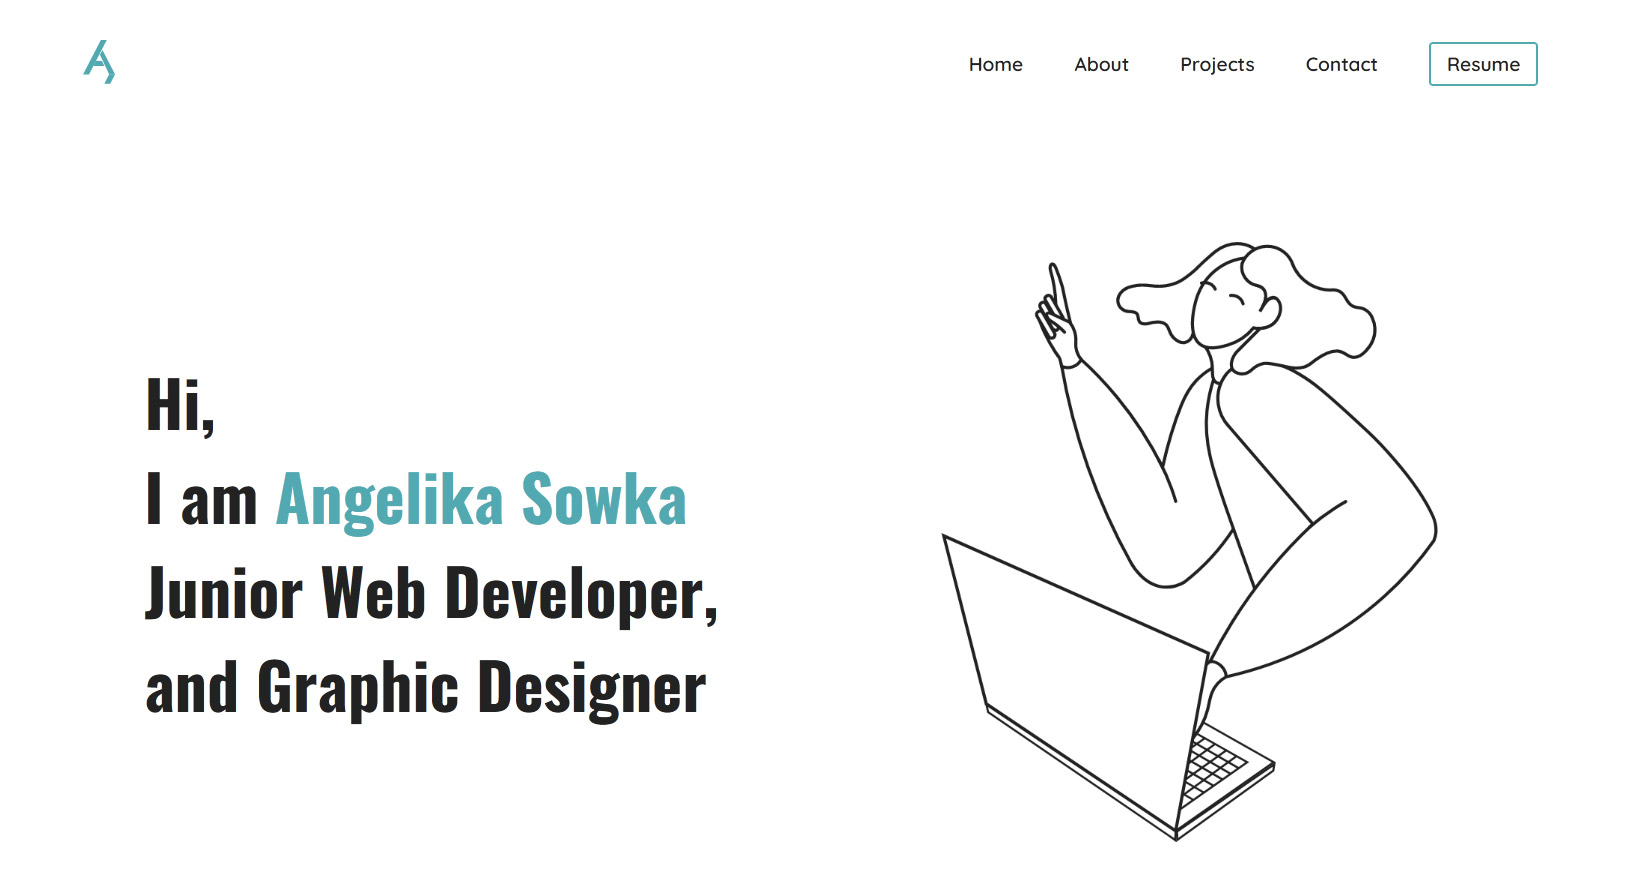
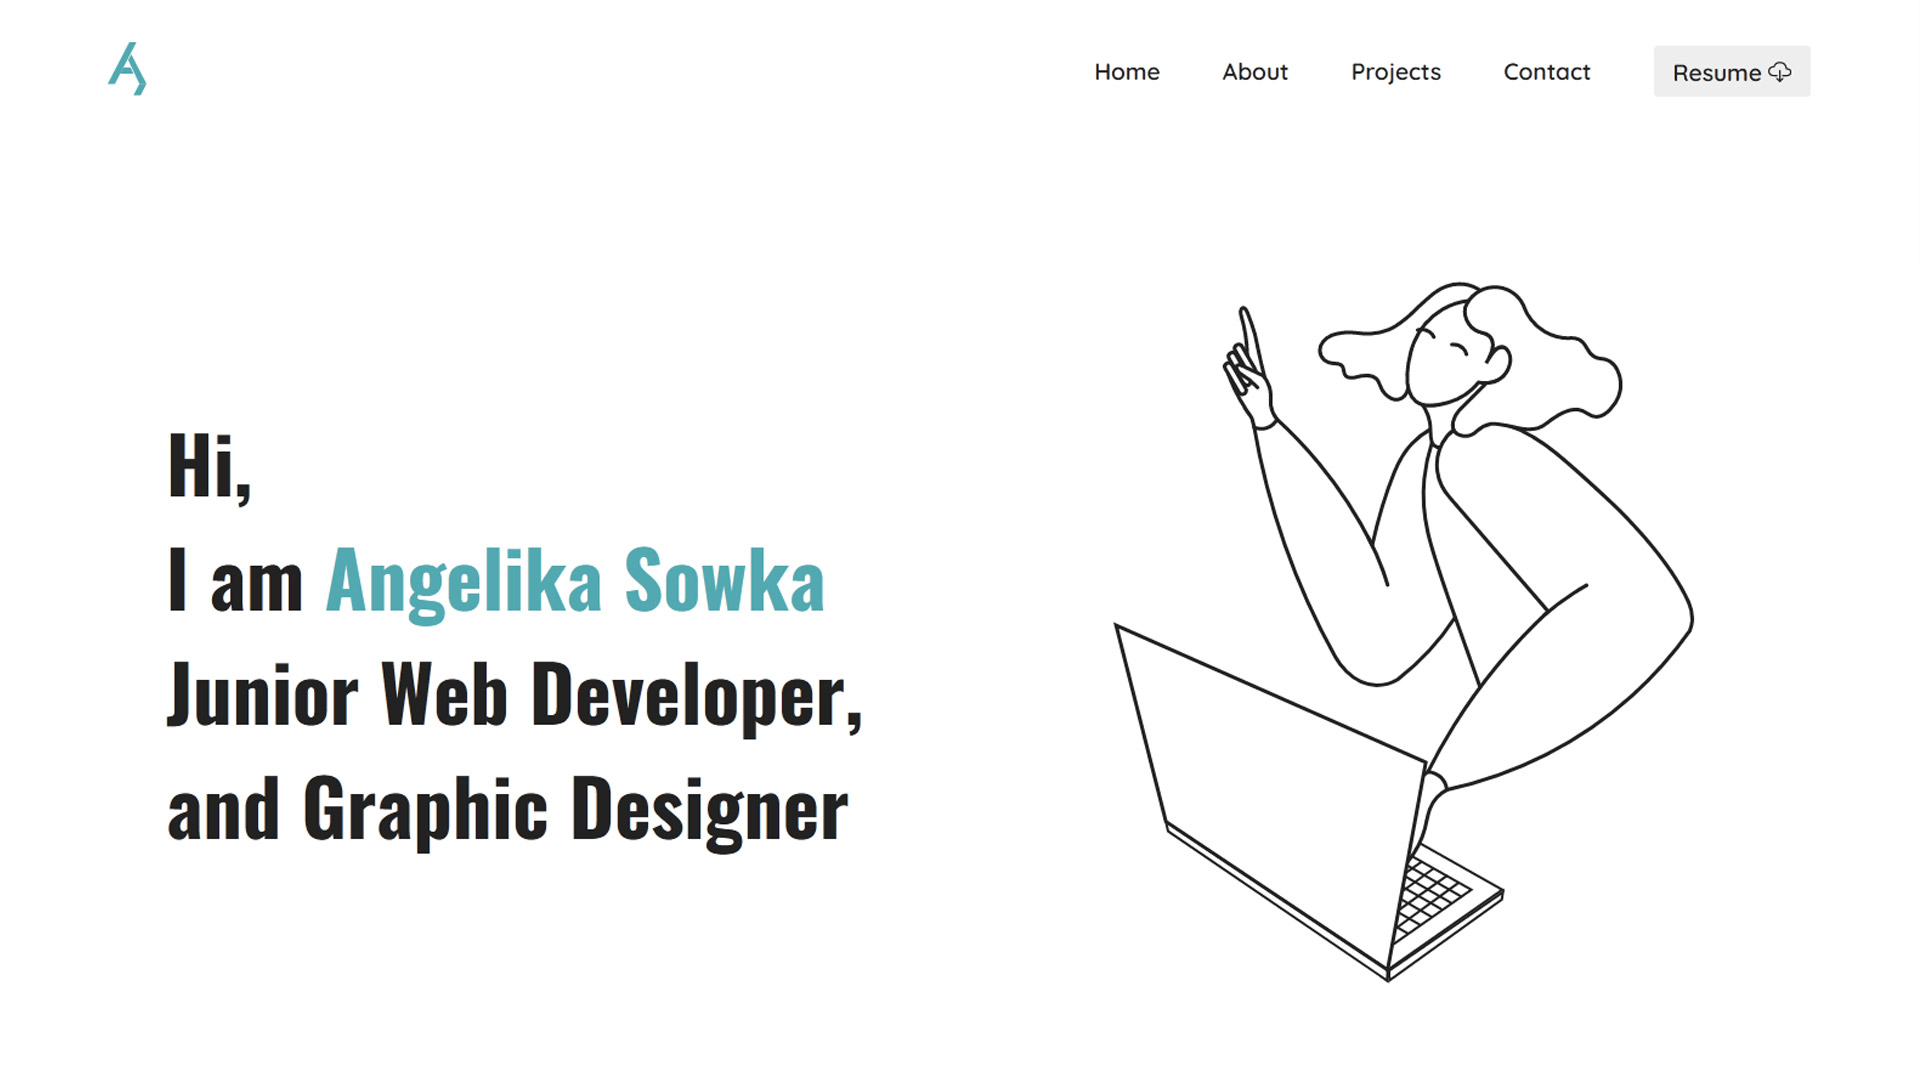
5th commit

diff --git a/main.js b/main.js
@@ -19,7 +19,6 @@ const sectionHeroEl = document.querySelector(".home");
 const obs = new IntersectionObserver(
   function (entries) {
     const ent = entries[0];
-    console.log(ent);
     if (ent.isIntersecting === false) {
       document.body.classList.add("sticky");
     }
@@ -28,9 +27,54 @@ const obs = new IntersectionObserver(
     }
   },
   {
+    // in the viewport
     root: null,
     threshold: 0,
     rootMargin: "-80px",
   }
 );
 obs.observe(sectionHeroEl);
+
+// Smooth scrolling navigation
+
+const allLinks = document.querySelectorAll("a:link");
+
+allLinks.forEach(function (link) {
+  link.addEventListener("click", function (e) {
+    e.preventDefault();
+    const href = link.getAttribute("href");
+
+    // scroll back to top
+    if (href === "#")
+      window.scrollTo({
+        top: 0,
+        behavior: "smooth",
+      });
+
+    // scroll to other links
+    if (href !== "#" && href.startsWith("#")) {
+      const sectionEl = document.querySelector(href);
+      sectionEl.scrollIntoView({ behavior: "smooth" });
+    }
+
+    // go to project pages
+    if (href !== "#" && href.startsWith("project-1.html"))
+      window.open("project-1.html");
+    if (href !== "#" && href.startsWith("project-2.html"))
+      window.open("project-2.html");
+    if (href !== "#" && href.startsWith("project-3.html"))
+      window.open("project-3.html");
+    if (href !== "#" && href.startsWith("project-4.html"))
+      window.open("project-4.html");
+    if (href !== "#" && href.startsWith("project-5.html"))
+      window.open("project-5.html");
+    if (href !== "#" && href.startsWith("project-6.html"))
+      window.open("project-6.html");
+    if (href !== "#" && href.startsWith("img/Angelika Sowka CV.pdf"))
+      window.open("img/Angelika Sowka CV.pdf");
+
+    // close mobile navigation
+    if (link.classList.contains("main-nav--link"))
+      headerEl.classList.toggle("nav-open");
+  });
+});

diff --git a/styles.css b/styles.css
@@ -7,6 +7,7 @@
 html {
   font-family: var(--font-paragraf);
   overflow-x: hidden;
+  /* scroll-behavior: smooth; */
 }
 
 body {
@@ -69,7 +70,7 @@ p {
   display: flex;
   justify-content: space-between;
   align-items: center;
-  padding: 3rem 5.6rem 0 5.6rem;
+  padding: 2rem 5.6rem 2rem 5.6rem;
 }
 
 .logo {
@@ -79,7 +80,8 @@ p {
 }
 
 #Layer_1 {
-  width: 2em;
+  width: 1.5rem;
+  vertical-align: middle;
 }
 #Layer_2 {
   width: 2em;
@@ -130,7 +132,7 @@ p {
   top: 0;
   bottom: 0;
   width: 100%;
-  height: 8rem;
+  height: 5.6rem;
   padding-top: 0;
   padding-bottom: 0;
   background-color: rgb(255, 255, 255);
@@ -139,7 +141,7 @@ p {
 }
 
 .sticky .home {
-  margin-top: 9.6rem;
+  margin-top: 5.6rem;
 }
 
 /* MOBILE */
@@ -148,6 +150,7 @@ p {
   background: none;
   cursor: pointer;
   display: none;
+  vertical-align: middle;
 }
 
 button {
@@ -255,8 +258,6 @@ button {
 }
 
 .links {
-  /* padding-bottom: 4.5rem; */
-  /* padding-top: 3rem; */
   display: flex;
   justify-content: center;
   list-style: none;
@@ -403,10 +404,11 @@ button {
 }
 .project-2:hover {
   background-image: url("img/portfolio-small.jpg");
-  background-size: 330px 330px;
+  background-size: cover;
 }
 .project-3:hover {
   background-image: url("img/to-do--mini.jpg");
+  /* background-image: url("img/to-do.jpg"); */
   background-size: 330px 330px;
 }
 .project-4:hover {
@@ -419,6 +421,7 @@ button {
 }
 
 .project-6:hover {
+  /* background-image: url("img/maria-heart-ilu.jpg"); */
   background-image: url("img/maria-heart-ilu.jpg");
   background-size: 330px 330px;
 }
@@ -551,13 +554,12 @@ button {
   border-radius: 0.2rem;
 }
 
-.footer-resume--btn .resume:link,
+/* .footer-resume--btn .resume:link,
 .footer-resume--btn .resume:visited {
   transition: all 0.3s;
 }
 
 .footer-resume--btn .resume:hover,
 .footer-resume--btn .resume:active {
-  /* border: 2px solid #52a9b1; */
   box-shadow: inset 0 0 0 1px #52a9b1;
-}
+} */

diff --git a/index.html b/index.html
@@ -44,6 +44,12 @@
       nomodule
       src="https://unpkg.com/ionicons@5.5.2/dist/ionicons/ionicons.js"
     ></script>
+
+    <script
+      defer
+      src="https://unpkg.com/smoothscroll-polyfill@0.4.4/dist/smoothscroll.min.js"
+    ></script>
+
     <script type="module" defer src="main.js"></script>
     <title>Angelika Sowka &mdash; portfolio</title>
   </head>
@@ -52,7 +58,7 @@
       <div class="header">
         <div class="navigation">
           <div class="logo" id="logo">
-            <a>
+            <a class="main-nav--link" href="#">
               <svg
                 id="Layer_1"
                 data-name="Layer 1"
@@ -88,7 +94,7 @@
           </div>
           <nav class="main-nav">
             <ul class="main-nav--list">
-              <li><a class="main-nav--link" href="#home">Home</a></li>
+              <li><a class="main-nav--link" href="#"">Home</a></li>
               <li><a class="main-nav--link" href="#about">About</a></li>
               <li>
                 <a class="main-nav--link" href="#work">Projects</a>
@@ -253,7 +259,7 @@
       <div class="container">
         <div class="footer-nav--div">
           <div class="logo-footer">
-            <a href="#home">
+            <a href="#">
               <svg
                 id="Layer_2"
                 data-name="Layer 2"
@@ -289,7 +295,7 @@
           </div>
           <div class="footer-main--nav">
             <ul class="footer-nav--list">
-              <li><a class="footer-nav--link" href="#logo">Home</a></li>
+              <li><a class="footer-nav--link" href="#">Home</a></li>
               <li><a class="footer-nav--link" href="#about">About</a></li>
               <li>
                 <a class="footer-nav--link" href="#work">Projects</a>

diff --git a/project-2.html b/project-2.html
@@ -39,7 +39,7 @@
       <div class="header" id="nav">
         <div class="navigation">
           <div class="logo">
-            <a>
+            <a class="main-nav--link" href="index.html#nav">
               <svg
                 id="Layer_1"
                 data-name="Layer 1"
@@ -116,11 +116,14 @@
               GitHub
             </p>
             <div class="code-live--links">
-              <a href="#" class="link-live">
+              <a
+                href="https://angelikaso.github.io/portfolio_2022/"
+                class="link-live"
+              >
                 <p class="link-style">View Live</p>
               </a>
               <a
-                href="https://github.com/AngelikaSo/portfolio_2"
+                href="https://github.com/AngelikaSo/portfolio_2022"
                 class="link-live"
               >
                 <p class="link-style">View Code</p>

diff --git a/project-1.html b/project-1.html
@@ -39,7 +39,7 @@
       <div class="header" id="nav">
         <div class="navigation">
           <div class="logo">
-            <a>
+            <a class="main-nav--link" href="index.html#nav">
               <svg
                 id="Layer_1"
                 data-name="Layer 1"
@@ -171,7 +171,7 @@
       <div class="container">
         <div class="footer-nav--div">
           <div class="logo-footer">
-            <a href="#nav">
+            <a href="#">
               <svg
                 id="Layer_2"
                 data-name="Layer 2"

diff --git a/project-4.html b/project-4.html
@@ -39,7 +39,7 @@
       <div class="header" id="nav">
         <div class="navigation">
           <div class="logo">
-            <a>
+            <a class="main-nav--link" href="index.html#nav">
               <svg
                 id="Layer_1"
                 data-name="Layer 1"
@@ -71,7 +71,7 @@
                 />
               </svg>
               <!-- <p>Angelika Sowka</p> -->
-            </a>
+            </>
           </div>
           <nav class="main-nav">
             <ul class="main-nav--list">

diff --git a/queries.css b/queries.css
@@ -9,6 +9,10 @@
     grid-template-columns: 100px 1fr 100px;
   }
 
+  .hero-text h1 {
+    font-size: 3.2rem;
+  }
+
   p {
     font-size: 1.5rem;
   }
@@ -85,6 +89,10 @@
 @media (max-width: 48em) {
   html {
     font-size: 60%;
+  }
+
+  #Layer_1 {
+    width: 1.9rem;
   }
 
   .grid-col--flex {
@@ -289,10 +297,6 @@
   .five {
     grid-column: 1/ 3;
     grid-row: 7/ 8;
-  }
-
-  #Layer_2 {
-    width: 1.6rem;
   }
 
   .footer-nav--div {

diff --git a/project-6.html b/project-6.html
@@ -39,7 +39,7 @@
       <div class="header" id="nav">
         <div class="navigation">
           <div class="logo" id="logo">
-            <a>
+            <a class="main-nav--link" href="index.html#nav">
               <svg
                 id="Layer_1"
                 data-name="Layer 1"

diff --git a/project-3.html b/project-3.html
@@ -39,7 +39,7 @@
       <div class="header" id="nav">
         <div class="navigation">
           <div class="logo">
-            <a>
+            <a class="main-nav--link" href="index.html#nav">
               <svg
                 id="Layer_1"
                 data-name="Layer 1"

diff --git a/project-5.html b/project-5.html
@@ -39,7 +39,7 @@
       <div class="header" id="nav">
         <div class="navigation">
           <div class="logo">
-            <a>
+            <a class="main-nav--link" href="index.html#nav">
               <svg
                 id="Layer_1"
                 data-name="Layer 1"
